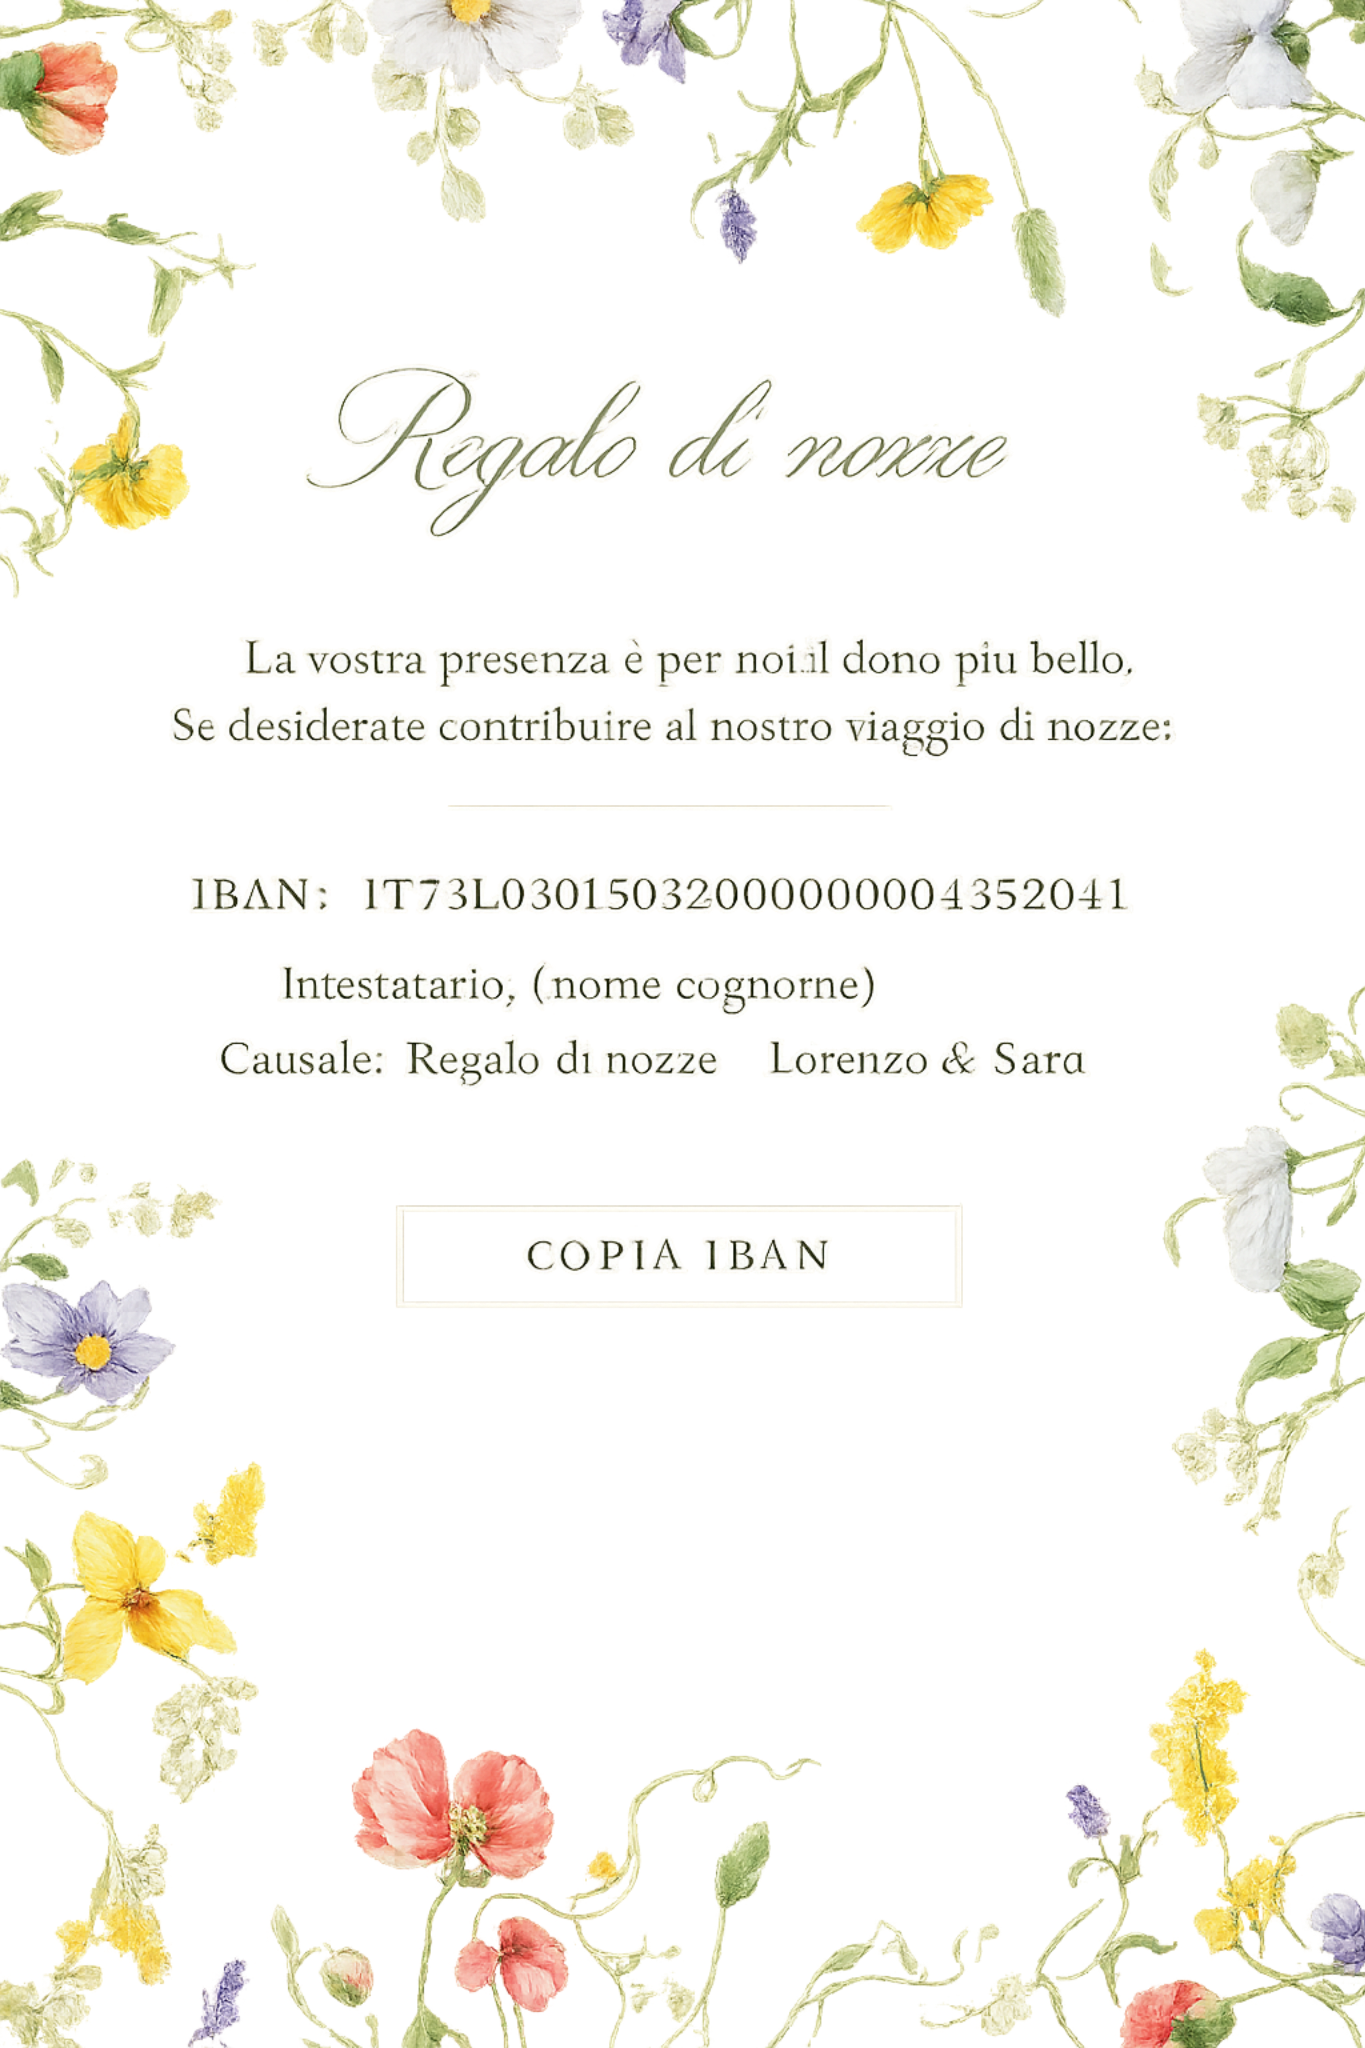
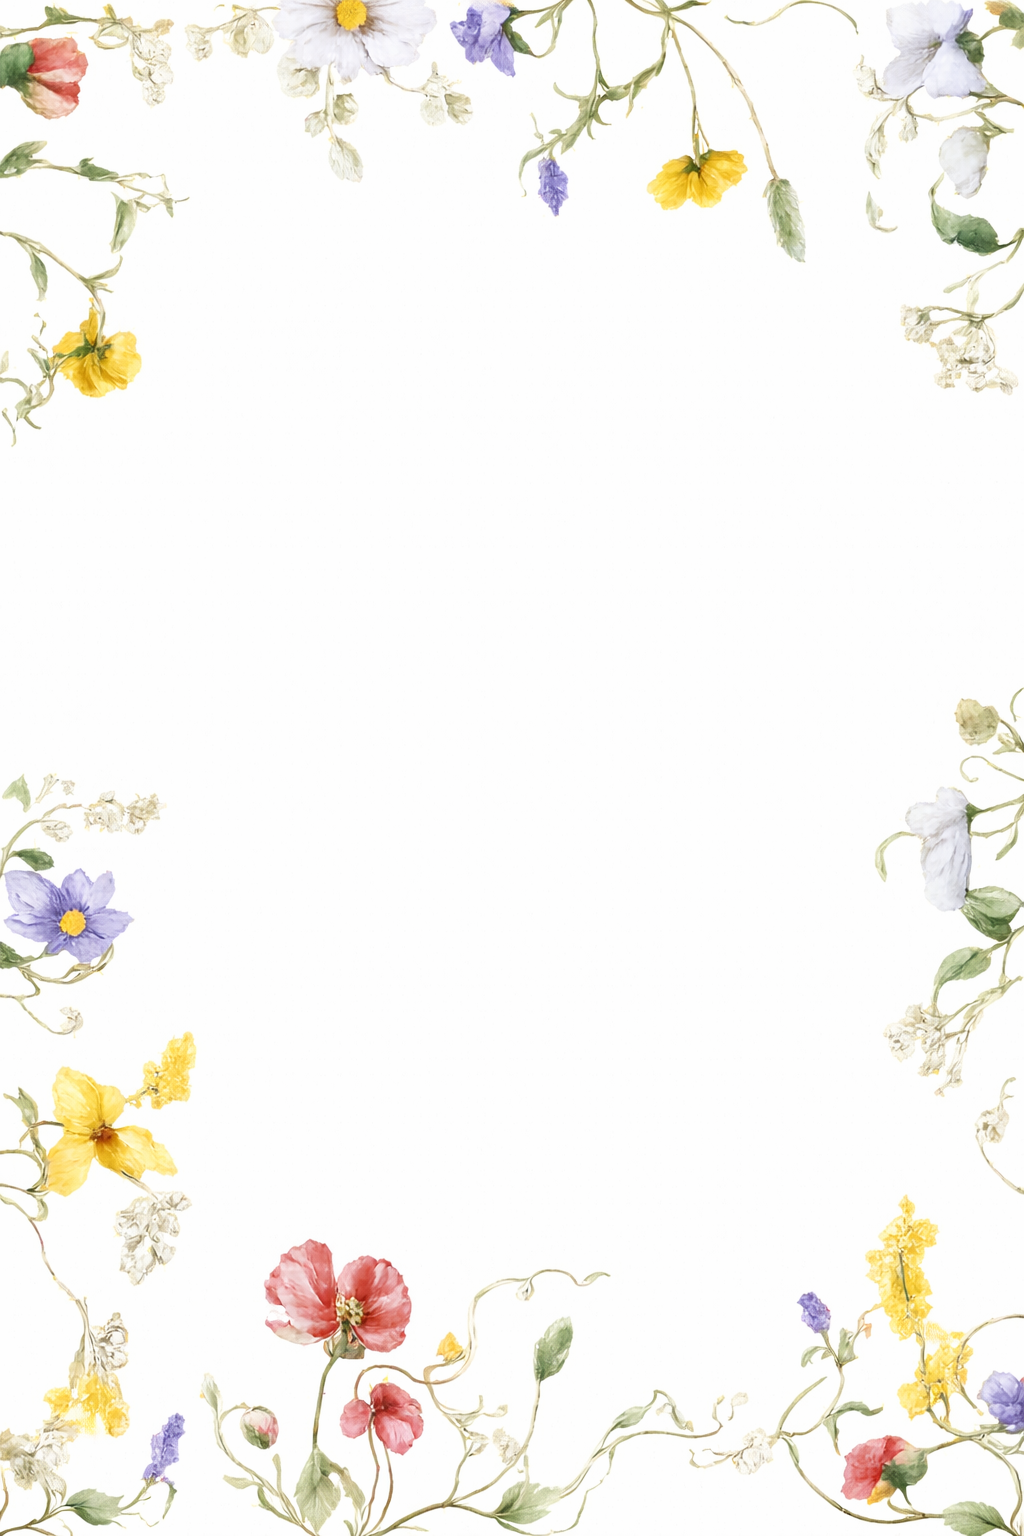
Add files via upload

diff --git a/index.html b/index.html
@@ -5,14 +5,13 @@
   <meta name="viewport" content="width=device-width, initial-scale=1" />
   <title>Regalo di nozze</title>
 
-  <!-- Fonts -->
-  <link href="https://fonts.googleapis.com/css2?family=Italianno&family=Cormorant+Garamond:wght@400;500&display=swap" rel="stylesheet">
+  <!-- Fonts very close to wedding invitation -->
+  <link href="https://fonts.googleapis.com/css2?family=Italianno&family=Libre+Baskerville:wght@400;700&display=swap" rel="stylesheet">
 
   <style>
     :root {
-      --ink: rgba(255,255,255,0.96);
+      --ink: #ffffff;
       --shadow: rgba(0,0,0,0.35);
-      --btn-bg: rgba(0,0,0,0.16);
     }
 
     html, body {
@@ -24,128 +23,105 @@
       display: grid;
       place-items: center;
       background: #111;
-      font-family: "Cormorant Garamond", serif;
+      font-family: "Libre Baskerville", serif;
     }
 
-    /* Poster with fixed proportion like the artwork */
     .poster {
       width: min(520px, 100vw);
       aspect-ratio: 2 / 3;
       background: url("sfondo_fiori.png") center/cover no-repeat;
       position: relative;
-      overflow: hidden;
     }
 
-    /* Single flow layout to avoid overlaps on any screen */
     .content {
       height: 100%;
-      box-sizing: border-box;
-      padding: clamp(56px, 10vw, 84px) clamp(18px, 4.5vw, 28px);
+      padding: clamp(64px, 10vw, 96px) clamp(22px, 5vw, 34px);
       display: flex;
       flex-direction: column;
       align-items: center;
       justify-content: center;
-      gap: clamp(10px, 2.2vw, 16px);
       text-align: center;
+      gap: 16px;
     }
 
-    .title {
+    h1 {
       font-family: "Italianno", cursive;
-      font-size: clamp(44px, 9vw, 66px);
-      line-height: 1.0;
+      font-size: clamp(46px, 9vw, 68px);
+      font-weight: 400;
       color: var(--ink);
       text-shadow: 0 2px 0 var(--shadow);
       margin: 0;
     }
 
     .subtitle {
-      font-size: clamp(15px, 3.7vw, 22px);
-      line-height: 1.35;
+      font-size: clamp(15px, 3.4vw, 21px);
+      line-height: 1.4;
       color: var(--ink);
       text-shadow: 0 2px 0 var(--shadow);
-      margin: 0;
-      max-width: 34ch;
+      max-width: 36ch;
     }
 
     .divider {
-      width: min(320px, 70%);
-      height: 2px;
+      width: 60%;
+      height: 1.5px;
       background: var(--ink);
-      opacity: 0.9;
-      box-shadow: 0 2px 0 var(--shadow);
-      margin-top: 4px;
-      margin-bottom: 2px;
+      opacity: 0.85;
     }
 
-    .ibanline {
-      font-size: clamp(15px, 3.5vw, 22px);
-      line-height: 1.3;
-      letter-spacing: 0.02em;
+    .iban {
+      font-size: clamp(15px, 3.2vw, 21px);
+      letter-spacing: 0.04em;
       color: var(--ink);
       text-shadow: 0 2px 0 var(--shadow);
-      user-select: all;
       word-break: break-word;
+      user-select: all;
       max-width: 40ch;
-      padding: 0 6px;
-      margin: 0;
-    }
-
-    .btnwrap {
-      width: min(320px, 70%);
-      display: flex;
-      flex-direction: column;
-      align-items: center;
-      gap: 10px;
-      margin-top: clamp(6px, 1.5vw, 10px);
     }
 
     button {
-      width: 100%;
-      padding: 12px 14px;
-      font-family: "Cormorant Garamond", serif;
-      font-size: clamp(13px, 3.0vw, 18px);
-      letter-spacing: 0.14em;
+      margin-top: 8px;
+      padding: 12px 20px;
+      font-family: "Libre Baskerville", serif;
+      font-size: 13px;
+      letter-spacing: 0.18em;
       text-transform: uppercase;
-      border: 2px solid rgba(255,255,255,0.9);
-      background: var(--btn-bg);
+      background: transparent;
+      border: 2px solid var(--ink);
       color: var(--ink);
       cursor: pointer;
-      box-shadow: 0 2px 0 var(--shadow);
-      backdrop-filter: blur(1px);
     }
 
-    button:active {
-      transform: translateY(1px);
+    button:hover {
+      background: rgba(255,255,255,0.15);
     }
 
     .hint {
       min-height: 1.2em;
-      font-size: clamp(12px, 2.8vw, 15px);
-      color: rgba(255,255,255,0.92);
-      text-shadow: 0 2px 0 var(--shadow);
-      margin: 0;
+      font-size: 13px;
+      color: var(--ink);
+      text-shadow: 0 1px 0 var(--shadow);
     }
   </style>
 </head>
 
 <body>
-  <main class="poster" aria-label="Regalo di nozze - IBAN">
+  <main class="poster">
     <section class="content">
-      <h1 class="title">Regalo di nozze</h1>
+      <h1>Regalo di nozze</h1>
 
       <p class="subtitle">
-        La vostra presenza è per noi il dono più bello,<br>
-        se desiderate contribuire al nostro viaggio di nozze:
+        La vostra presenza è per noi il dono più bello.<br>
+        Se desiderate contribuire al nostro viaggio di nozze:
       </p>
 
-      <div class="divider" aria-hidden="true"></div>
+      <div class="divider"></div>
 
-      <p class="ibanline" id="iban">IBAN: IT73L0301503200000004352041</p>
-
-      <div class="btnwrap">
-        <button type="button" onclick="copyIban()">Copia IBAN</button>
-        <p class="hint" id="hint" aria-live="polite"></p>
+      <div class="iban" id="iban">
+        IBAN: IT73L0301503200000004352041
       </div>
+
+      <button onclick="copyIban()">Copia IBAN</button>
+      <div class="hint" id="hint"></div>
     </section>
   </main>
 
@@ -153,11 +129,8 @@
     function copyIban() {
       const iban = "IT73L0301503200000004352041";
       navigator.clipboard.writeText(iban).then(() => {
-        const h = document.getElementById("hint");
-        h.textContent = "IBAN copiato ✓";
-        setTimeout(() => h.textContent = "", 2000);
-      }).catch(() => {
-        document.getElementById("hint").textContent = "Seleziona e copia manualmente l'IBAN.";
+        document.getElementById("hint").innerText = "IBAN copiato ✓";
+        setTimeout(() => document.getElementById("hint").innerText = "", 2000);
       });
     }
   </script>
